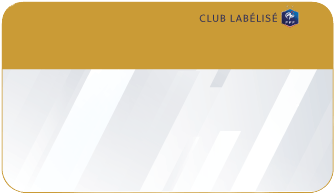
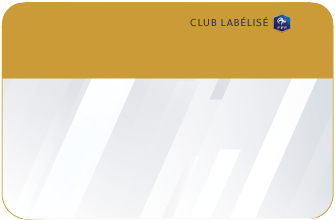
label card ok

diff --git a/src/components/Clean/Cards/Cards.css b/src/components/Clean/Cards/Cards.css
@@ -53,7 +53,7 @@
 /* <<<<<<<<<<<<<<<<   CARTE CLUB LABELLISE  >>>>>>>>>>>>>>>> */
 
 .cardResultLabel {
-  height: 220px;
+  height: 230px;
   width: 305px;
   background-image: url("../../../assets/CompressedPictures/Cards/Fonds/cardLabel.png");
   background-position: center;
@@ -74,7 +74,7 @@
   background-size: cover;
 }
 
-.cardResult:nth-child(1n) .logo1:nth-child(1n) {
+.cardResult .logo1:nth-child(1n) {
   background-image: url("../../../assets/Logos/Mail-bleu.png");
   background-position: center;
   background-size: cover;
@@ -100,9 +100,9 @@
 /* Logo Localisation */
 
 .cardResultLabel .logo2:nth-child(2n) {
-    background-image: url("../../../assets/CompressedPictures/Cards/Logos/localisationJaune.png");
-    background-position: center;
-    background-size: cover;
+  background-image: url("../../../assets/CompressedPictures/Cards/Logos/localisationJaune.png");
+  background-position: center;
+  background-size: cover;
 }
 
 .cardResult .logo2:nth-child(2n) {
@@ -132,10 +132,10 @@
 /* Logo Info */
 
 .cardResult .logo3:nth-child(3n) {
-    background-image: url("../../../assets/Logos/Info-bleu.png");
-    background-position: center;
-    background-size: cover;
-  }
+  background-image: url("../../../assets/Logos/Info-bleu.png");
+  background-position: center;
+  background-size: cover;
+}
 
 .cardResult:nth-child(2n) .logo3:nth-child(3n) {
   background-image: url("../../../assets/Logos/Info-rouge.png");
@@ -156,9 +156,9 @@
 }
 
 .cardResultLabel .logo3:nth-child(3n) {
-    background-image: url("../../../assets/CompressedPictures/Cards/Logos/infoJaune.png");
-    background-position: center;
-    background-size: cover;
+  background-image: url("../../../assets/CompressedPictures/Cards/Logos/infoJaune.png");
+  background-position: center;
+  background-size: cover;
 }
 
 .logo1,
@@ -166,6 +166,42 @@
 .logo3 {
   height: 32px;
   width: 32px;
+}
+
+
+.column2 {
+    height: 150px;
+    width: 230px;
+    display: flex;
+    flex-direction: column;
+    justify-content: space-around;
+  }
+
+
+.cardResultLabel .column2 {
+    height: 180px;
+    width: 230px;
+    display: flex;
+    flex-direction: column;
+    justify-content: space-around;
+
+}
+
+.column1 {
+    height: 150px;
+    width: 44px;
+    display: flex;
+    flex-direction: column;
+    justify-content: space-around;
+    padding-left: 16px;
+  }
+
+  .cardResultLabel .columnContainer {
+      margin-top:4px
+  }
+
+.cardResultLabel .column1 {
+    height: 180px;
 }
 
 /* 
@@ -185,7 +221,7 @@
 
 .titleCardContainer {
   height: 64px;
-  width: 305px;
+  width: 270px;
   display: flex;
   flex-direction: column;
   justify-content: center;
@@ -224,36 +260,50 @@
 }
 
 .titleCard {
-    height: 64px;
-    width: 305px;
+  height: 64px;
+  width: 280px;
+  display: flex;
+  flex-direction: column;
+  justify-content: center;
+  margin-left: 4px;
+  font-family: var(--main-font);
+  color: white;
+  font-size: calc(var(--main-fontSize) / 1.2);
+}
+
+@media screen and (max-width: 672px) {
+  .cardResult,
+  .cardResult:nth-child(1n),
+  .cardResult:nth-child(2n),
+  .cardResult:nth-child(3n),
+  .cardResult:nth-child(4n),
+  .cardResultLabel {
+    height: 235px;
+    width: 250px;
+  }
+
+  .cardResultLabel {
+    background-image: url("../../../assets/CompressedPictures/Cards/Fonds/cardLabelMobile.png");
+    background-position: center;
+    background-size: cover;
+  }
+
+  .titleCard {
+    height: 54px;
+    width: 245px;
     display: flex;
     flex-direction: column;
     justify-content: center;
-    margin-left: 4px;
     font-family: var(--main-font);
     color: white;
     font-size: calc(var(--main-fontSize) / 1.2);
+    padding-top: 16px;
+    line-height: 1.3;
   }
 
-
-@media screen and (max-width:672px) {
-
-    .cardResult, .cardResult:nth-child(1n), .cardResult:nth-child(2n), .cardResult:nth-child(3n), .cardResult:nth-child(4n), .cardResultLabel {
-        height: 235px;
-        width: 250px;
-      }
-
-      .titleCard {
-        height: 64px;
-        width: 245px;
-        display: flex;
-        flex-direction: column;
-        justify-content: center;
-        font-family: var(--main-font);
-        color: white;
-        font-size: calc(var(--main-fontSize) / 1.2);
-        border:1px solid black;
-      }
-
-
+  .cardResultLabel .logo3:nth-child(3n) {
+    background-image: url("../../../assets/CompressedPictures/Cards/Logos/infoJaune.png");
+    background-position: center;
+    background-size: cover;
+  }
 }

diff --git a/src/components/Clean/SmallPhone2.css b/src/components/Clean/SmallPhone2.css
@@ -301,11 +301,11 @@
     margin-bottom: 16px;
   }
 
-  .cardResult:nth-child(1n) .logo1:nth-child(1n) {
+  /* .cardResult:nth-child(1n) .logo1:nth-child(1n) {
     background-image: url("../../assets/Logos/Mail-bleu.png");
     background-position: center;
     background-size: cover;
-  }
+  } */
 
   .cardResult:nth-child(2n) .logo1:nth-child(1n) {
     background-image: url("../../assets/Logos/Mail-rouge.png");

diff --git a/src/components/Clean/Tablet.css b/src/components/Clean/Tablet.css
@@ -1309,22 +1309,7 @@
     background-color: transparent;
   }
 
-  .column1 {
-    height: 150px;
-    width: 44px;
-    display: flex;
-    flex-direction: column;
-    justify-content: space-around;
-    padding-left: 16px;
-  }
-
-  .column2 {
-    height: 150px;
-    width: 230px;
-    display: flex;
-    flex-direction: column;
-    justify-content: space-around;
-  }
+ 
 
   .titleCard {
     height: 64px;
